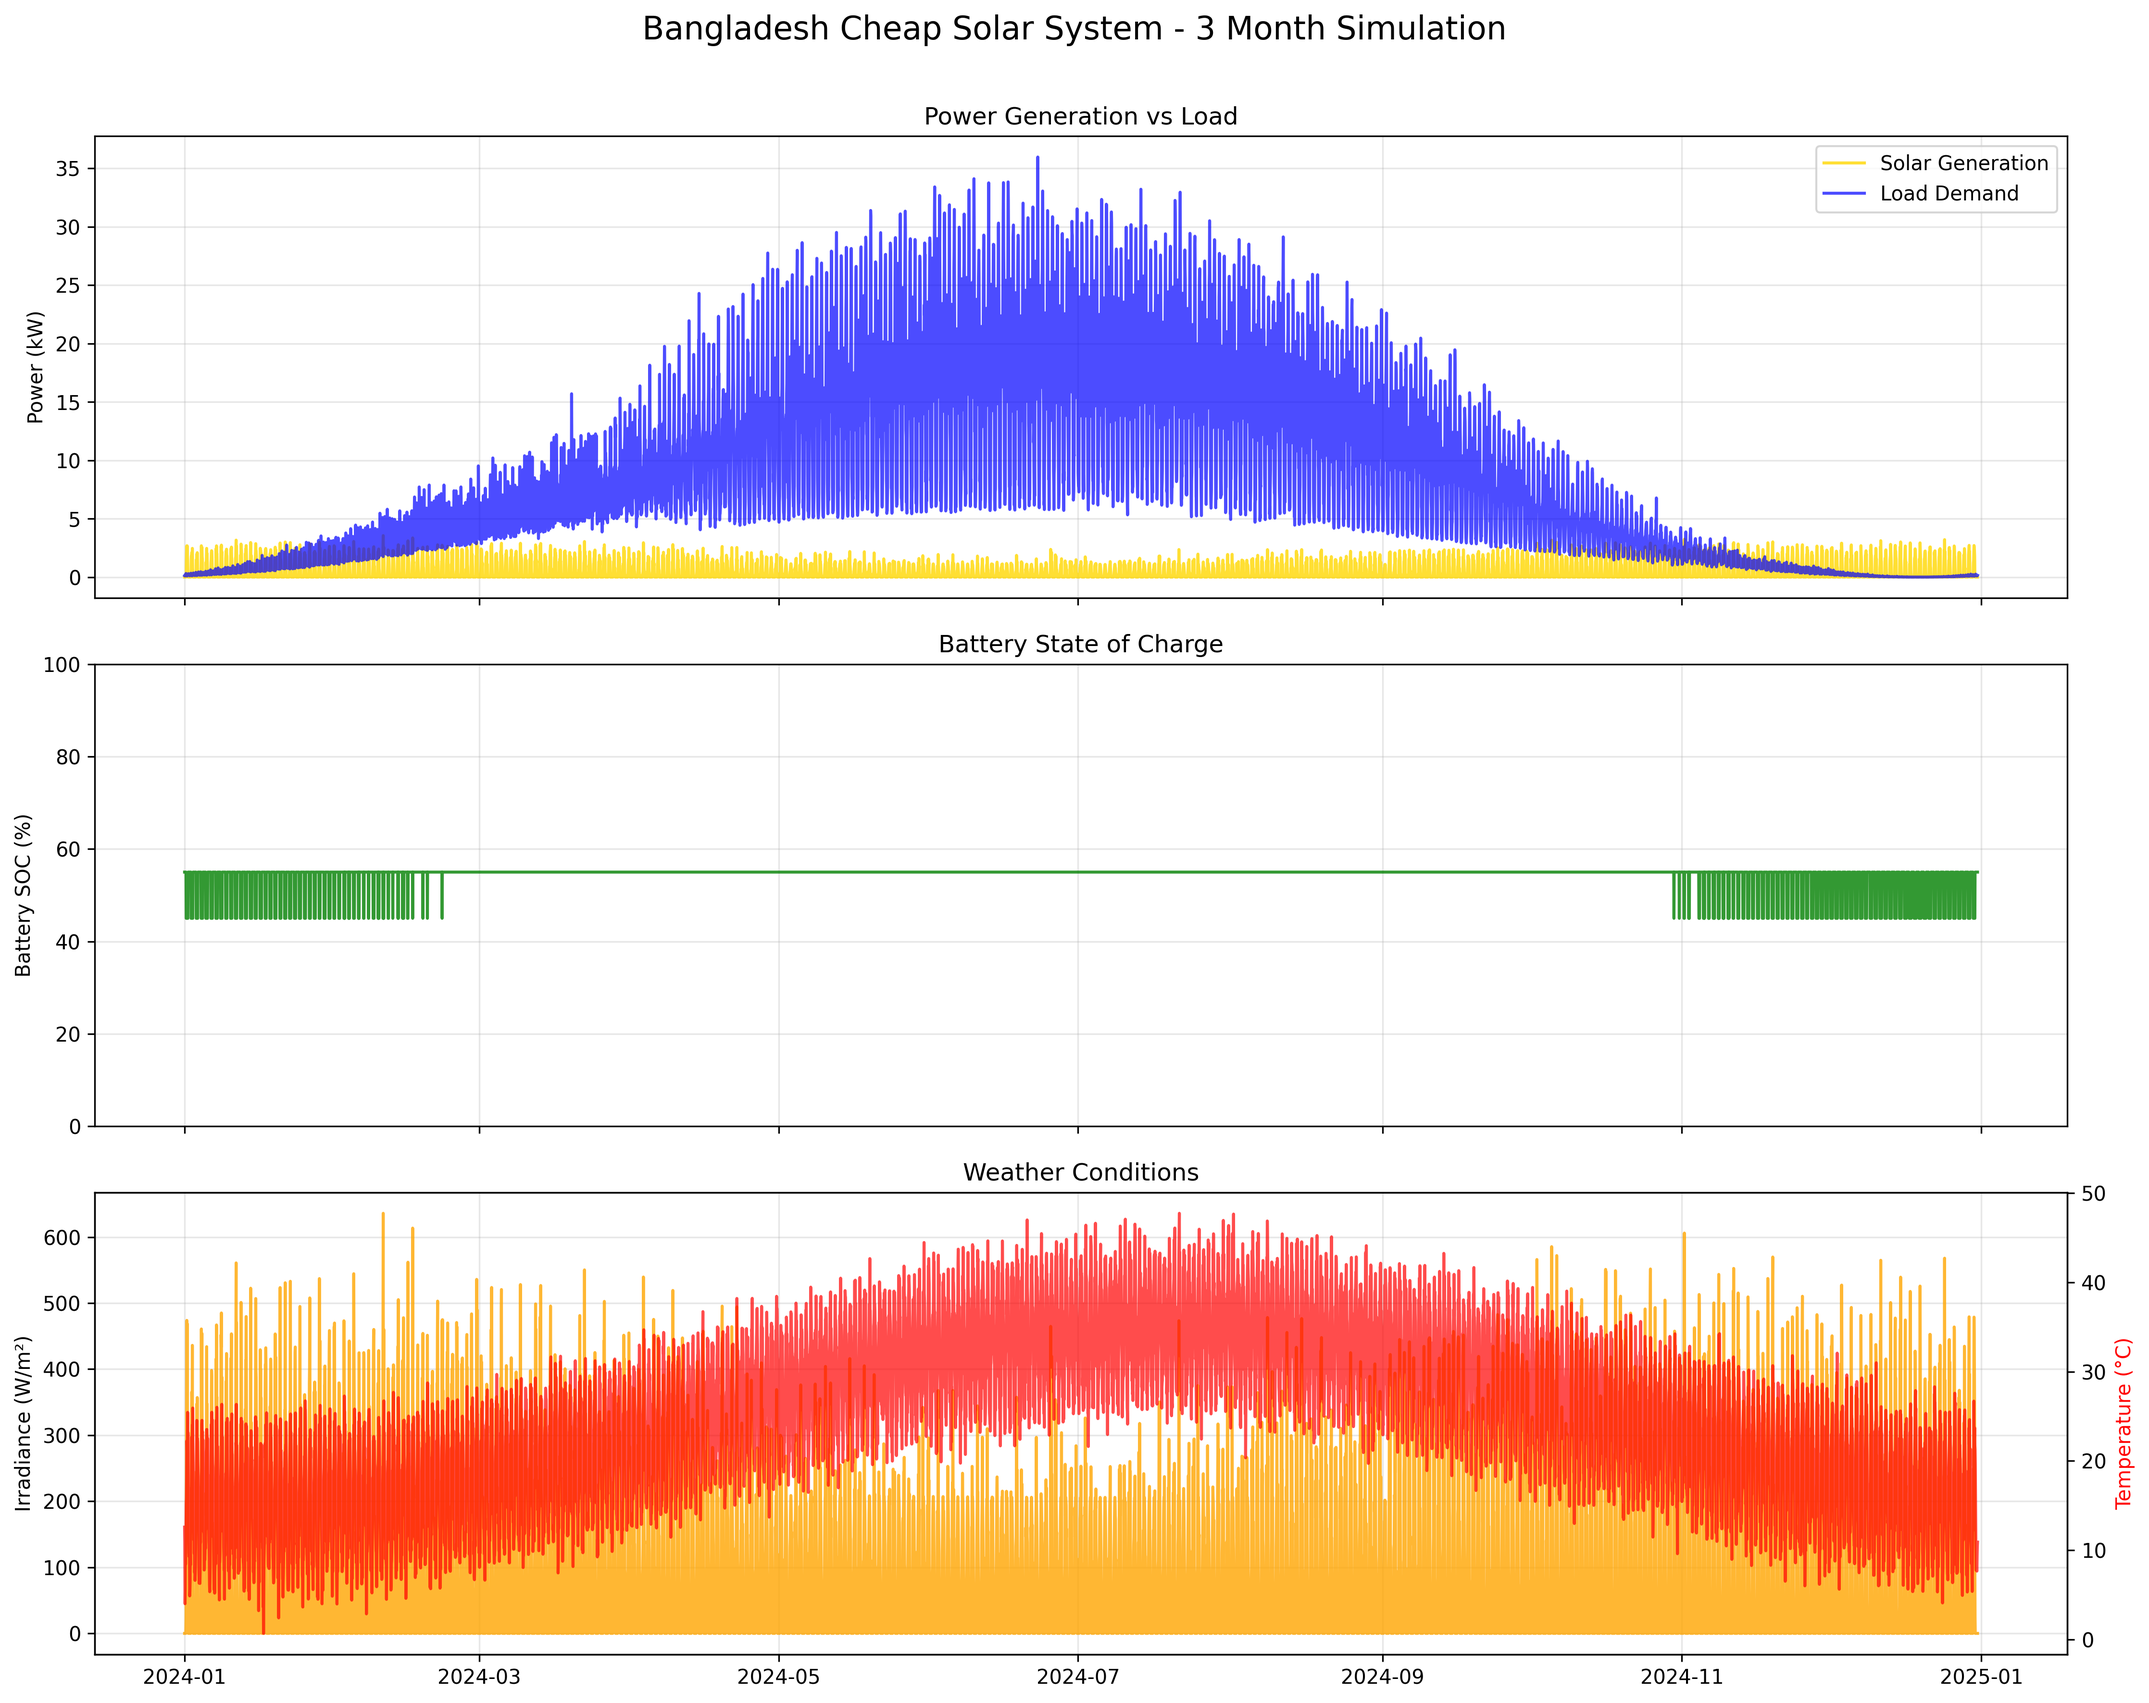
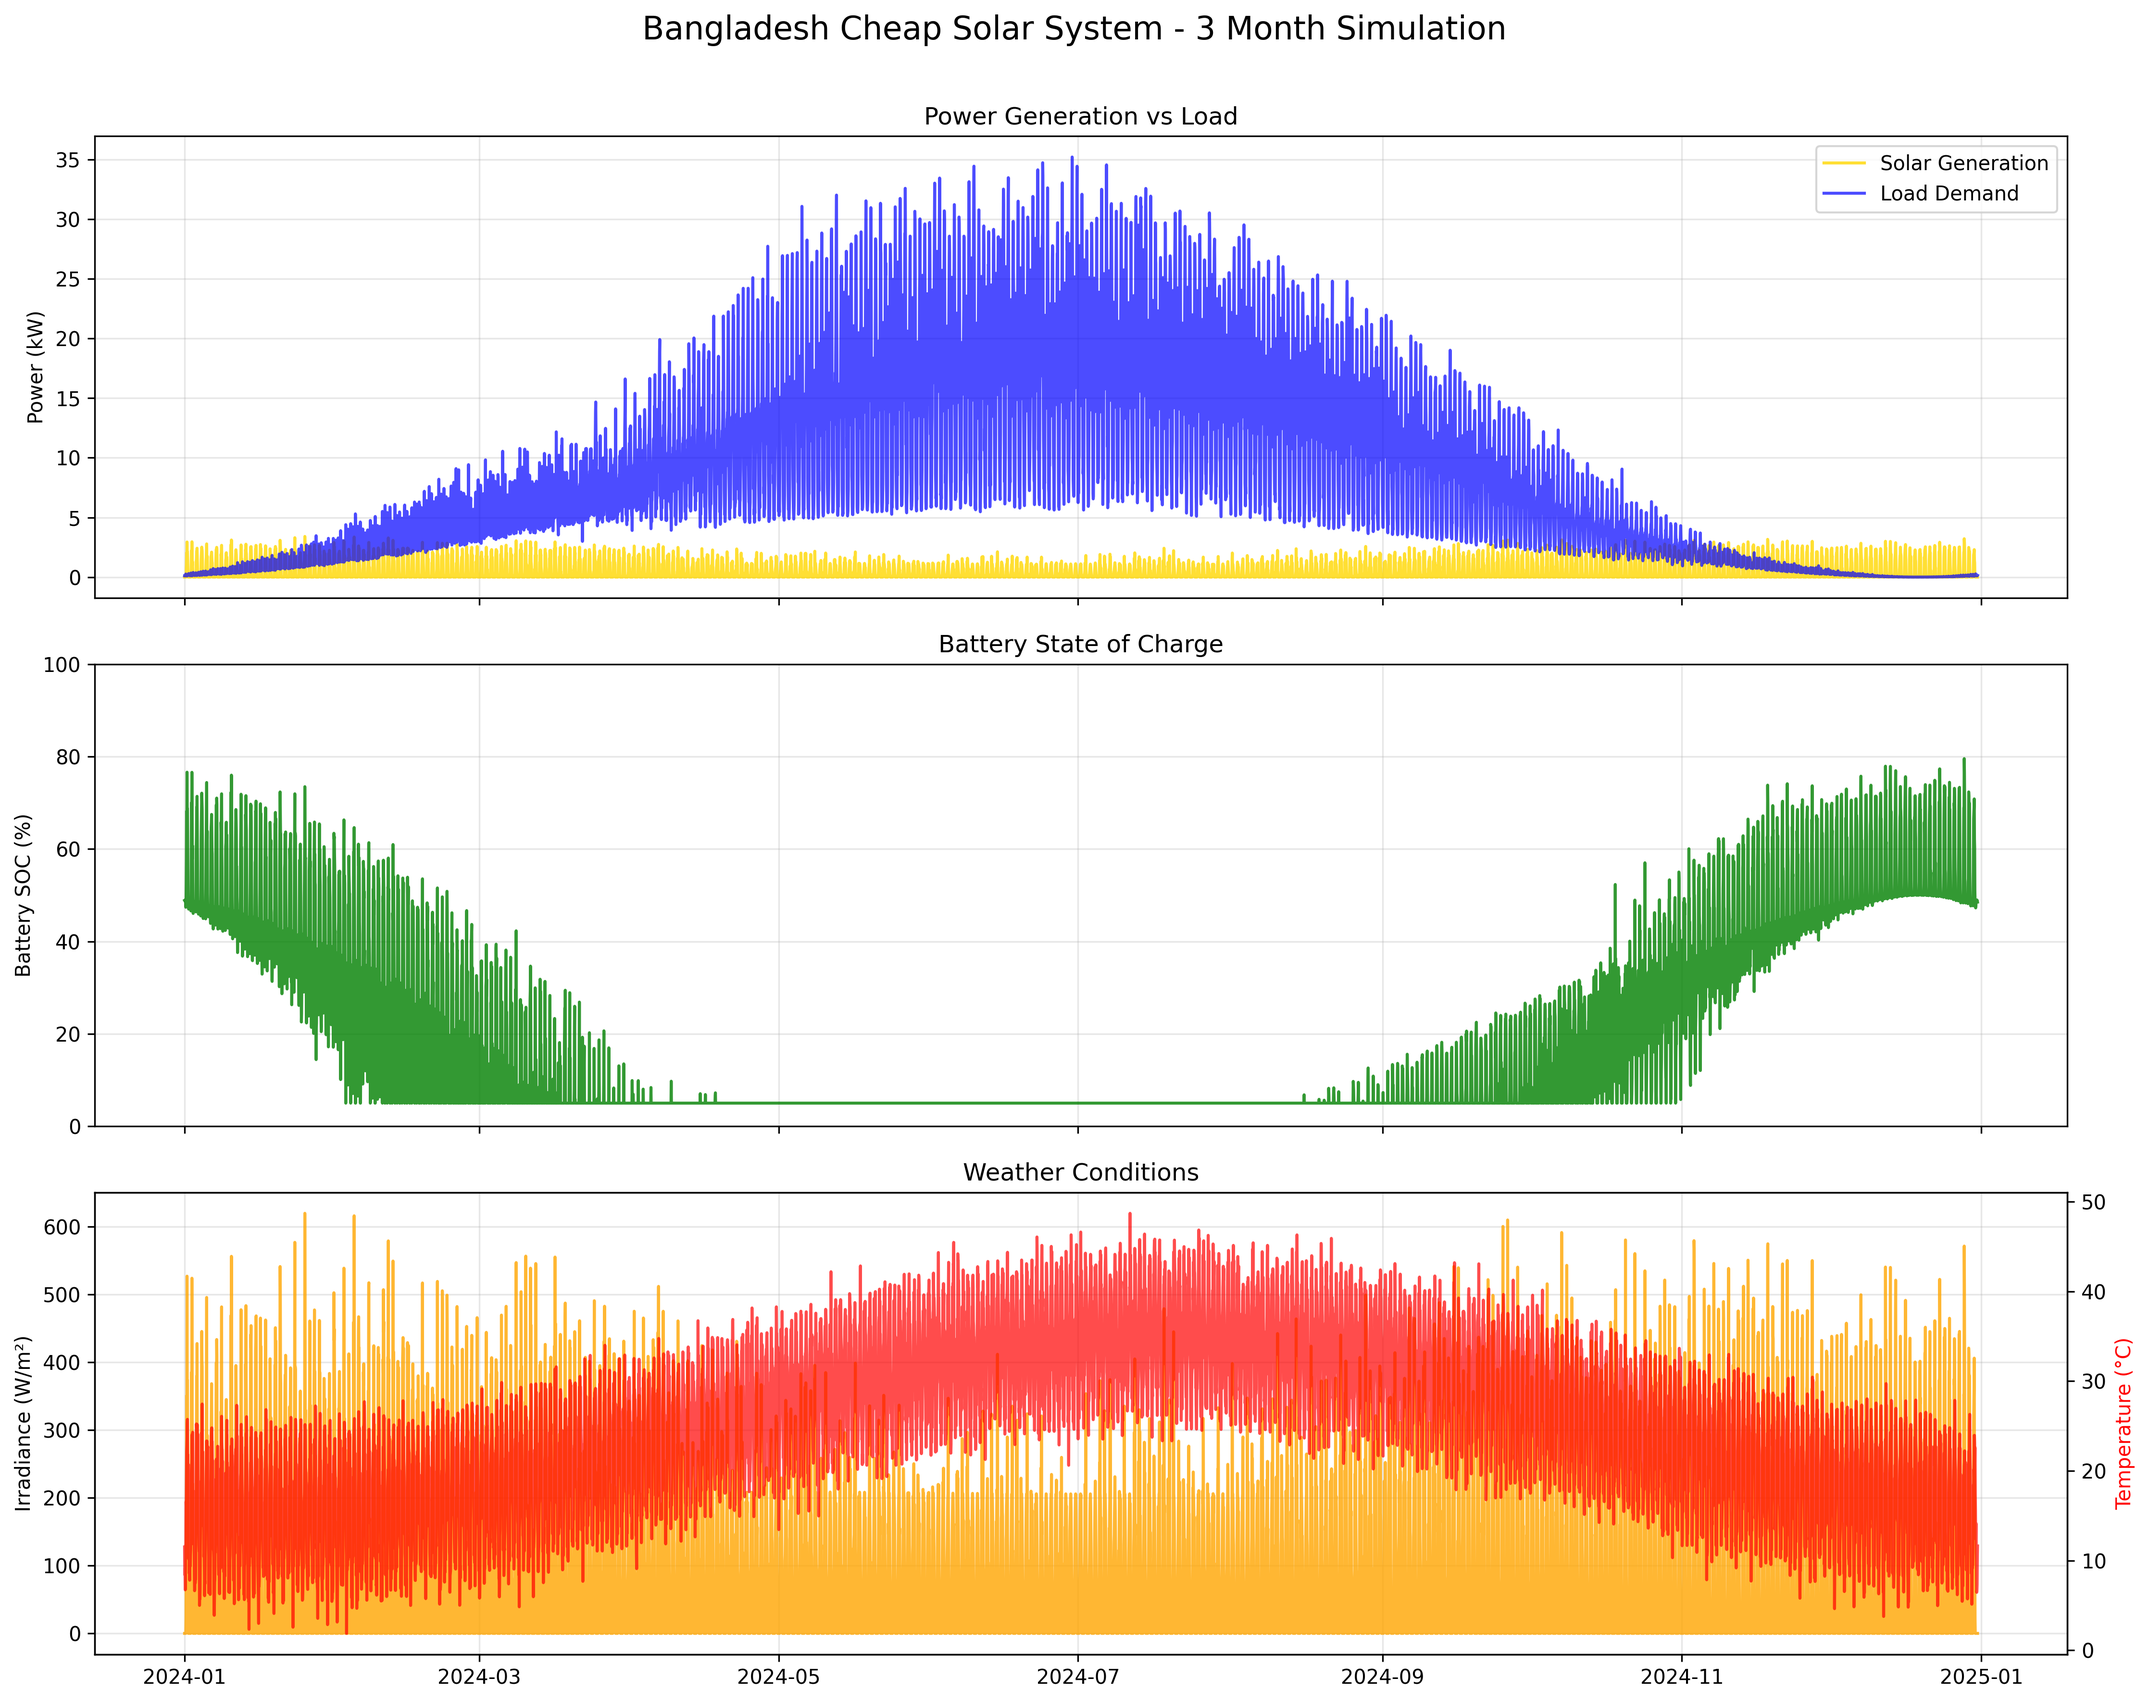
Update Bangladesh example to LiFePO4 lithium battery at /kWh (2024); update README and constants; rerun results and plot

diff --git a/solarsim/utils/constants.py b/solarsim/utils/constants.py
@@ -34,6 +34,12 @@ PV_TECHNOLOGIES = {
         'temperature_coefficient': -0.0025,
         'degradation_rate': 0.0025,
         'cost_per_watt': 0.60
+    },
+    'polycrystalline': {
+        'efficiency_range': (0.13, 0.17),
+        'temperature_coefficient': -0.005,
+        'degradation_rate': 0.007,
+        'cost_per_watt': 0.25
     }
 }
 
@@ -45,7 +51,7 @@ BATTERY_TECHNOLOGIES = {
         'round_trip_efficiency': 0.95,
         'calendar_life': 15,                # years
         'dod_max': 0.95,                   # depth of discharge
-        'cost_per_kwh': 200,               # $/kWh (2025)
+        'cost_per_kwh': 150,               # $/kWh (2024, Bangladesh)
         'self_discharge_rate': 0.003       # %/day
     },
     'li_ion_nmc': {
@@ -65,6 +71,15 @@ BATTERY_TECHNOLOGIES = {
         'dod_max': 0.50,
         'cost_per_kwh': 100,
         'self_discharge_rate': 0.01
+    },
+    'generic_china_lead_acid': {
+        'energy_density': 30,
+        'cycle_life': 400,
+        'round_trip_efficiency': 0.75,
+        'calendar_life': 5,
+        'dod_max': 0.45,
+        'cost_per_kwh': 60,
+        'self_discharge_rate': 0.015
     }
 }
 

diff --git a/examples/bangladesh_cheap_solar.py b/examples/bangladesh_cheap_solar.py
@@ -18,7 +18,7 @@ def create_bangladesh_cheap_config():
     )
     config.battery = BatteryConfig(
         capacity_kwh=10.0,
-        technology='generic_china_lead_acid'
+        technology='lifepo4'
     )
     config.inverter = InverterConfig(
         capacity_kw=4.0

diff --git a/README.md b/README.md
@@ -386,18 +386,22 @@ If you use SolarSim in academic research, please cite:
 
 Below are sample plots generated by SolarSim. These include power generation, battery state of charge, and weather conditions for different scenarios.
 
-### Bangladesh Cheap Solar Scenario
+### Bangladesh Solar Scenario (LiFePO4, 2024)
 
-A simulation of a large household in Dhaka, Bangladesh using low-cost polycrystalline panels and generic Chinese lead-acid batteries:
+A simulation of a large household in Dhaka, Bangladesh using low-cost polycrystalline panels and a modern lithium (LiFePO4) battery:
 
 ![Bangladesh Cheap Solar Plots](examples/simulation_results/bangladesh_cheap_solar_plots.png)
 
 - **Location:** Dhaka, Bangladesh (Tropical climate)
 - **PV:** 6 kW polycrystalline (15% efficiency, $0.25/W)
-- **Battery:** 10 kWh generic lead-acid (45% usable, $60/kWh)
+- **Battery:** 10 kWh LiFePO4 lithium (95% usable, $150/kWh, 2024 market)
 - **Inverter:** 4 kW
 - **Load:** Large household, 18 kWh/day
 
+**Key Results (3 months):**
+- Total Solar Generation: 1,069 kWh
+- System Availability: 42.8%
+- LCOE: $10.66/kWh (reflects low-cost PV, modern lithium battery)
 **Key Results:**
 - Total Solar Generation: 1,072 kWh (3 months)
 - System Availability: 8.4%
